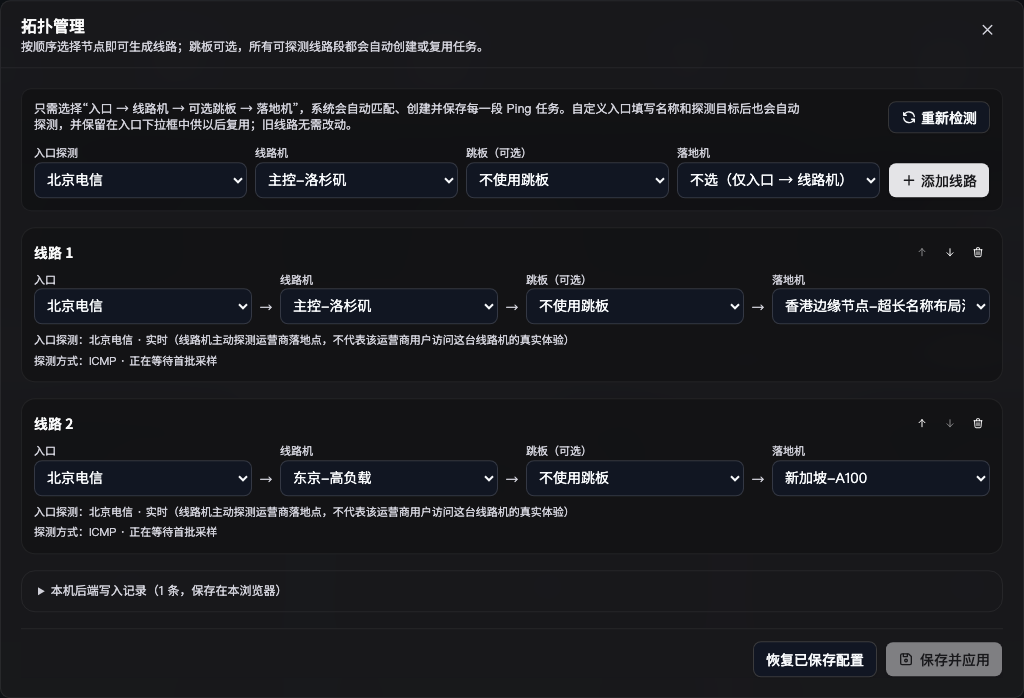
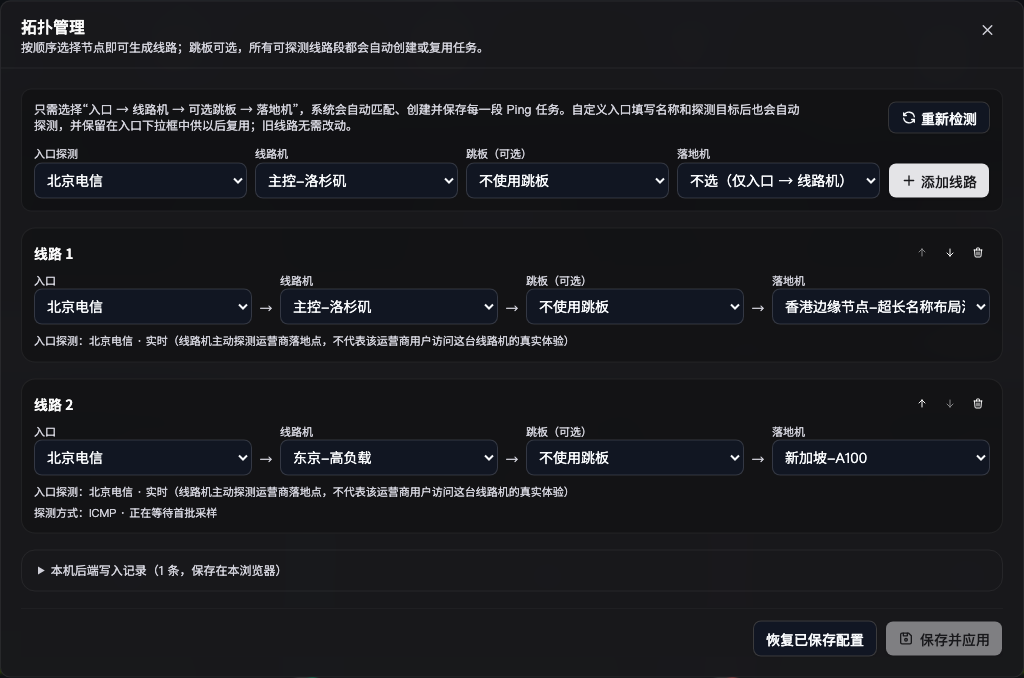
chore: release 1.3.8

diff --git a/companion/transit-route-probe/script.js b/companion/transit-route-probe/script.js
@@ -11,7 +11,7 @@ const API_ROOT = '/api/transit-route-probe/v1'
 // helper.sh's own VERSION constant) rather than `require('./komari-plugin.json')` —
 // Komari's goja module loader has never been exercised against a JSON require
 // anywhere in this plugin, and a load-time failure there would take down every route.
-const PLUGIN_VERSION = '1.3.7'
+const PLUGIN_VERSION = '1.3.8'
 const coordinator = new RouteProbeCoordinator({
   // Hex is supported by every Buffer implementation bundled with Komari's
   // goja runtime; unlike base64url it also needs no punctuation filtering.

diff --git a/CHANGELOG.md b/CHANGELOG.md
@@ -4,6 +4,14 @@
 
 ## [Unreleased]
 
+## [1.3.8] - 2026-08-24
+
+### Fixed
+
+- 桌面端拓扑线路重新占满内容区，消除落地机右侧的大块空白；窄屏和四节点线路仍可横向滚动，不挤压节点名称和逐段指标。
+- 静态和等待自动规划的拓扑段不再绘制容易被误认为历史数据的占位采样点，改为明确显示“静态”或“待探测”。
+- README 更新到当前三态探测模型，并重新生成暗色、亮色、拓扑管理器和发布包预览图。
+
 ## [1.3.7] - 2026-08-24
 
 ### Changed
